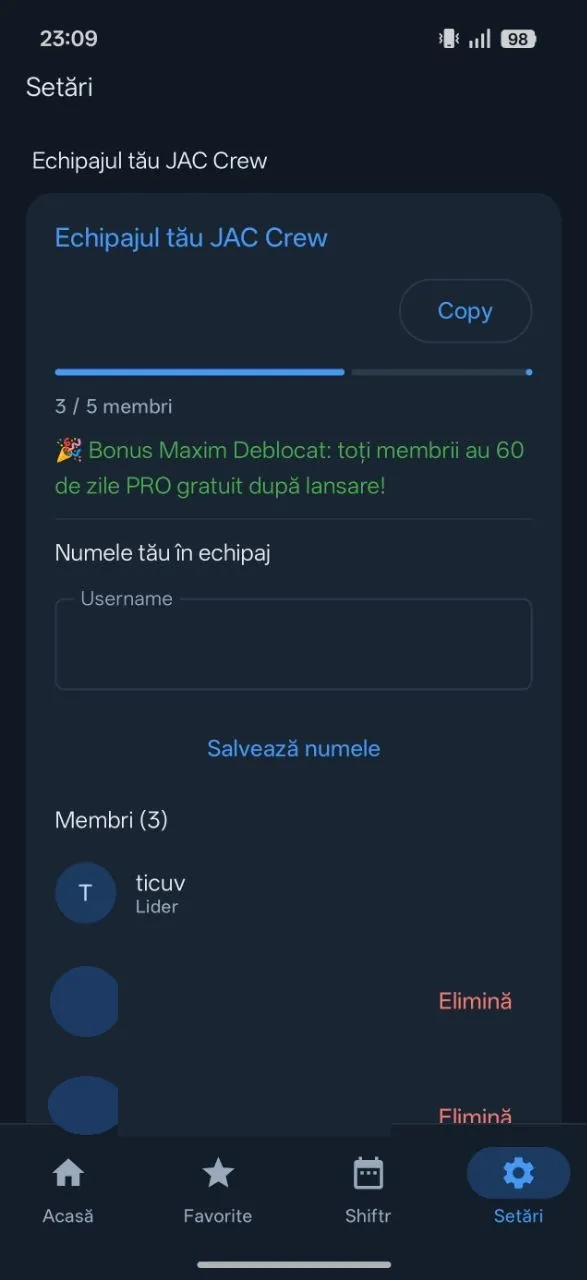
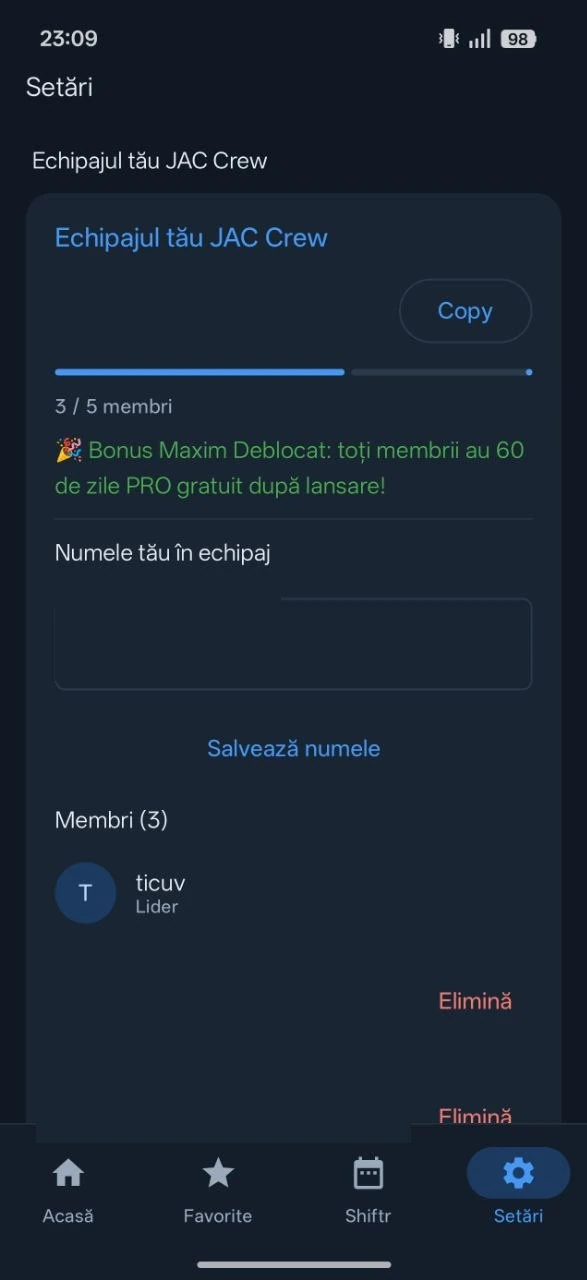
fix: acoperă numele și inițiala din JAC Crew
Rândurile de membri sunt acoperite integral, inclusiv avatarul și numele de lângă rol. Paginile încarcă masca cu ?v=2 ca să nu rămână o imagine veche în cache.

Changed region(s): [[0.092, 0.75, 0.2147, 0.8125], [0.0613, 0.8438, 0.2147, 0.9062]]

diff --git a/index-live.html b/index-live.html
@@ -531,8 +531,8 @@ html.motion .reveal { animation: rise .65s ease both; }
       <figure class="board">
         <div class="cluster c-one">
           <div class="ph a"><picture>
-  <source srcset="assets/landing/jac-crew-masked.webp" type="image/webp">
-  <img src="assets/landing/jac-crew-masked.jpg" alt="Ecranul JAC Crew pentru gestionarea echipei și a membrilor." width="587" height="1280" class="shot-img" decoding="async">
+  <source srcset="assets/landing/jac-crew-masked.webp?v=2" type="image/webp">
+  <img src="assets/landing/jac-crew-masked.jpg?v=2" alt="Ecranul JAC Crew pentru gestionarea echipei și a membrilor." width="587" height="1280" class="shot-img" decoding="async">
 </picture></div>
         </div>
         <figcaption class="caps">

diff --git a/index.html b/index.html
@@ -530,8 +530,8 @@ html.motion .reveal { animation: rise .65s ease both; }
       <figure class="board">
         <div class="cluster c-one">
           <div class="ph a"><picture>
-  <source srcset="assets/landing/jac-crew-masked.webp" type="image/webp">
-  <img src="assets/landing/jac-crew-masked.jpg" alt="Ecranul JAC Crew pentru gestionarea echipei și a membrilor." width="587" height="1280" class="shot-img" decoding="async">
+  <source srcset="assets/landing/jac-crew-masked.webp?v=2" type="image/webp">
+  <img src="assets/landing/jac-crew-masked.jpg?v=2" alt="Ecranul JAC Crew pentru gestionarea echipei și a membrilor." width="587" height="1280" class="shot-img" decoding="async">
 </picture></div>
         </div>
         <figcaption class="caps">
